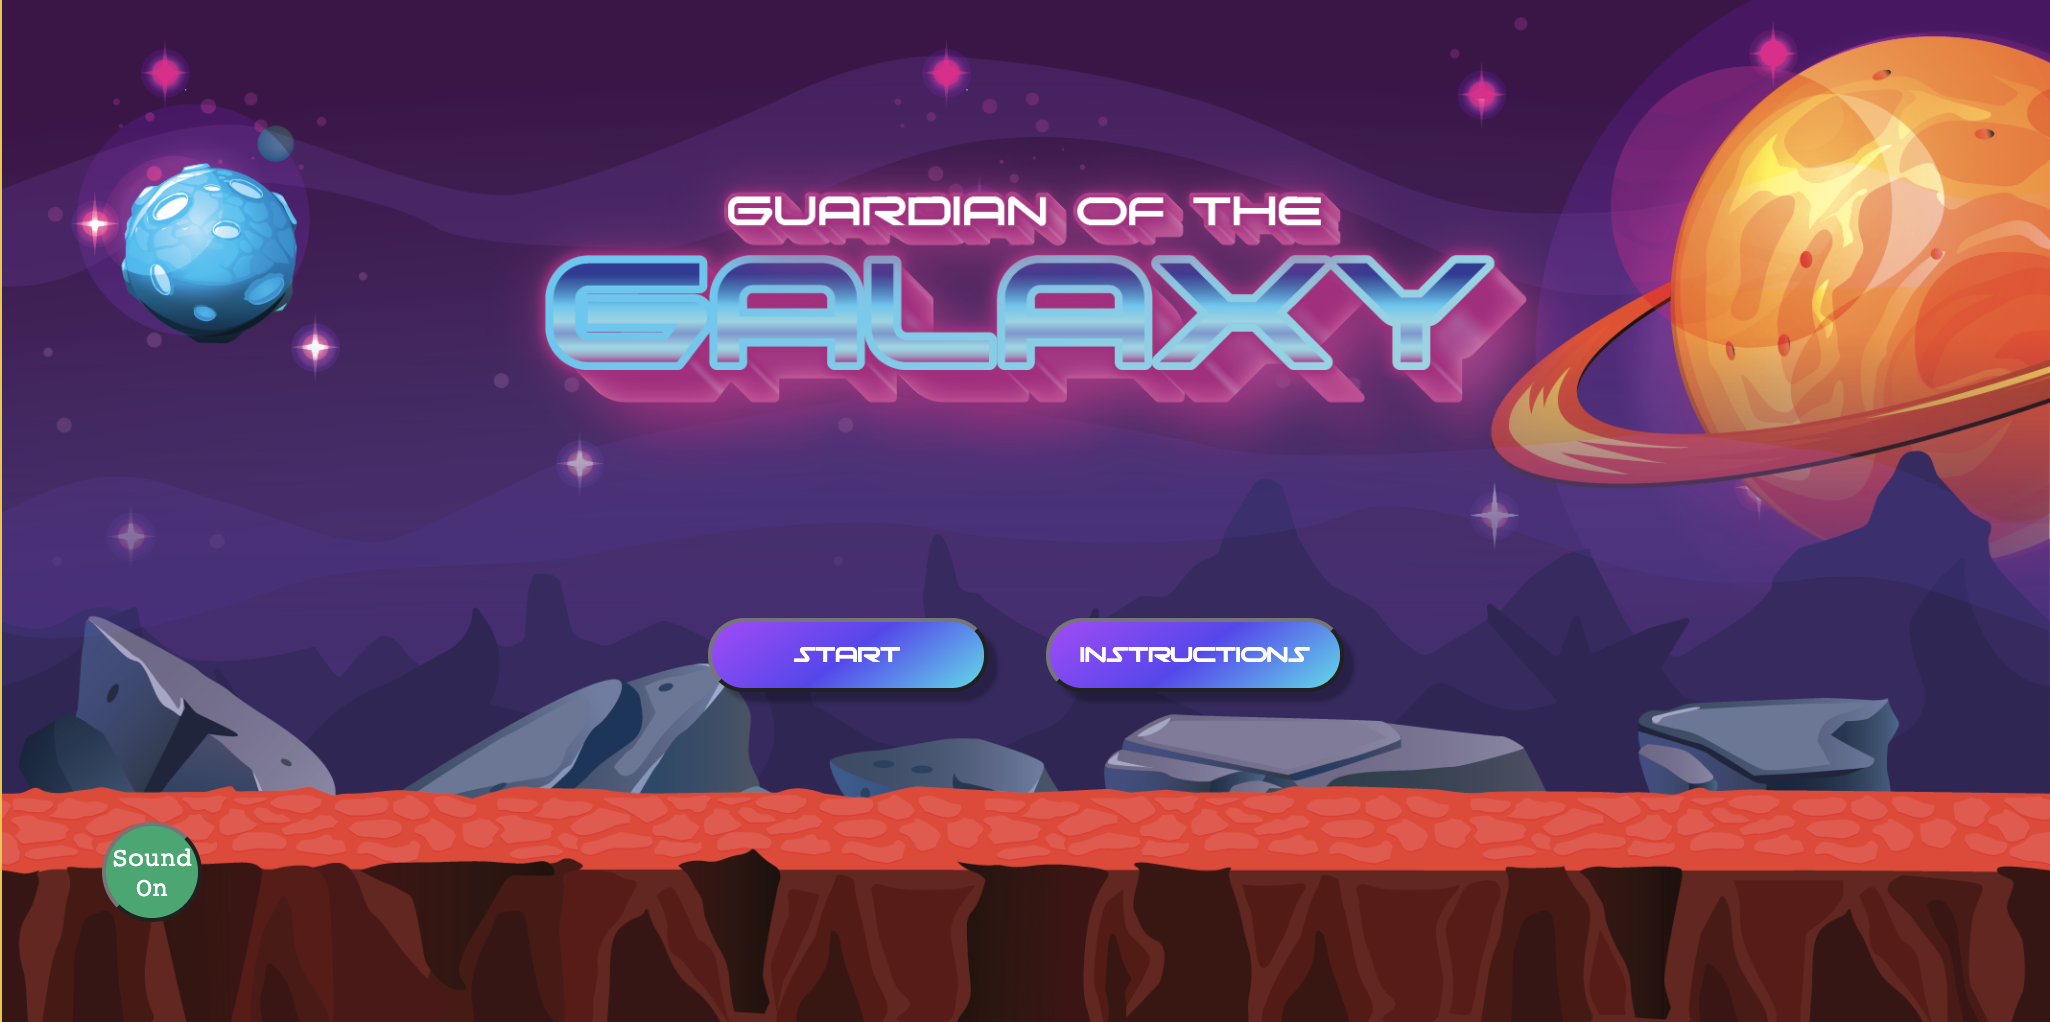
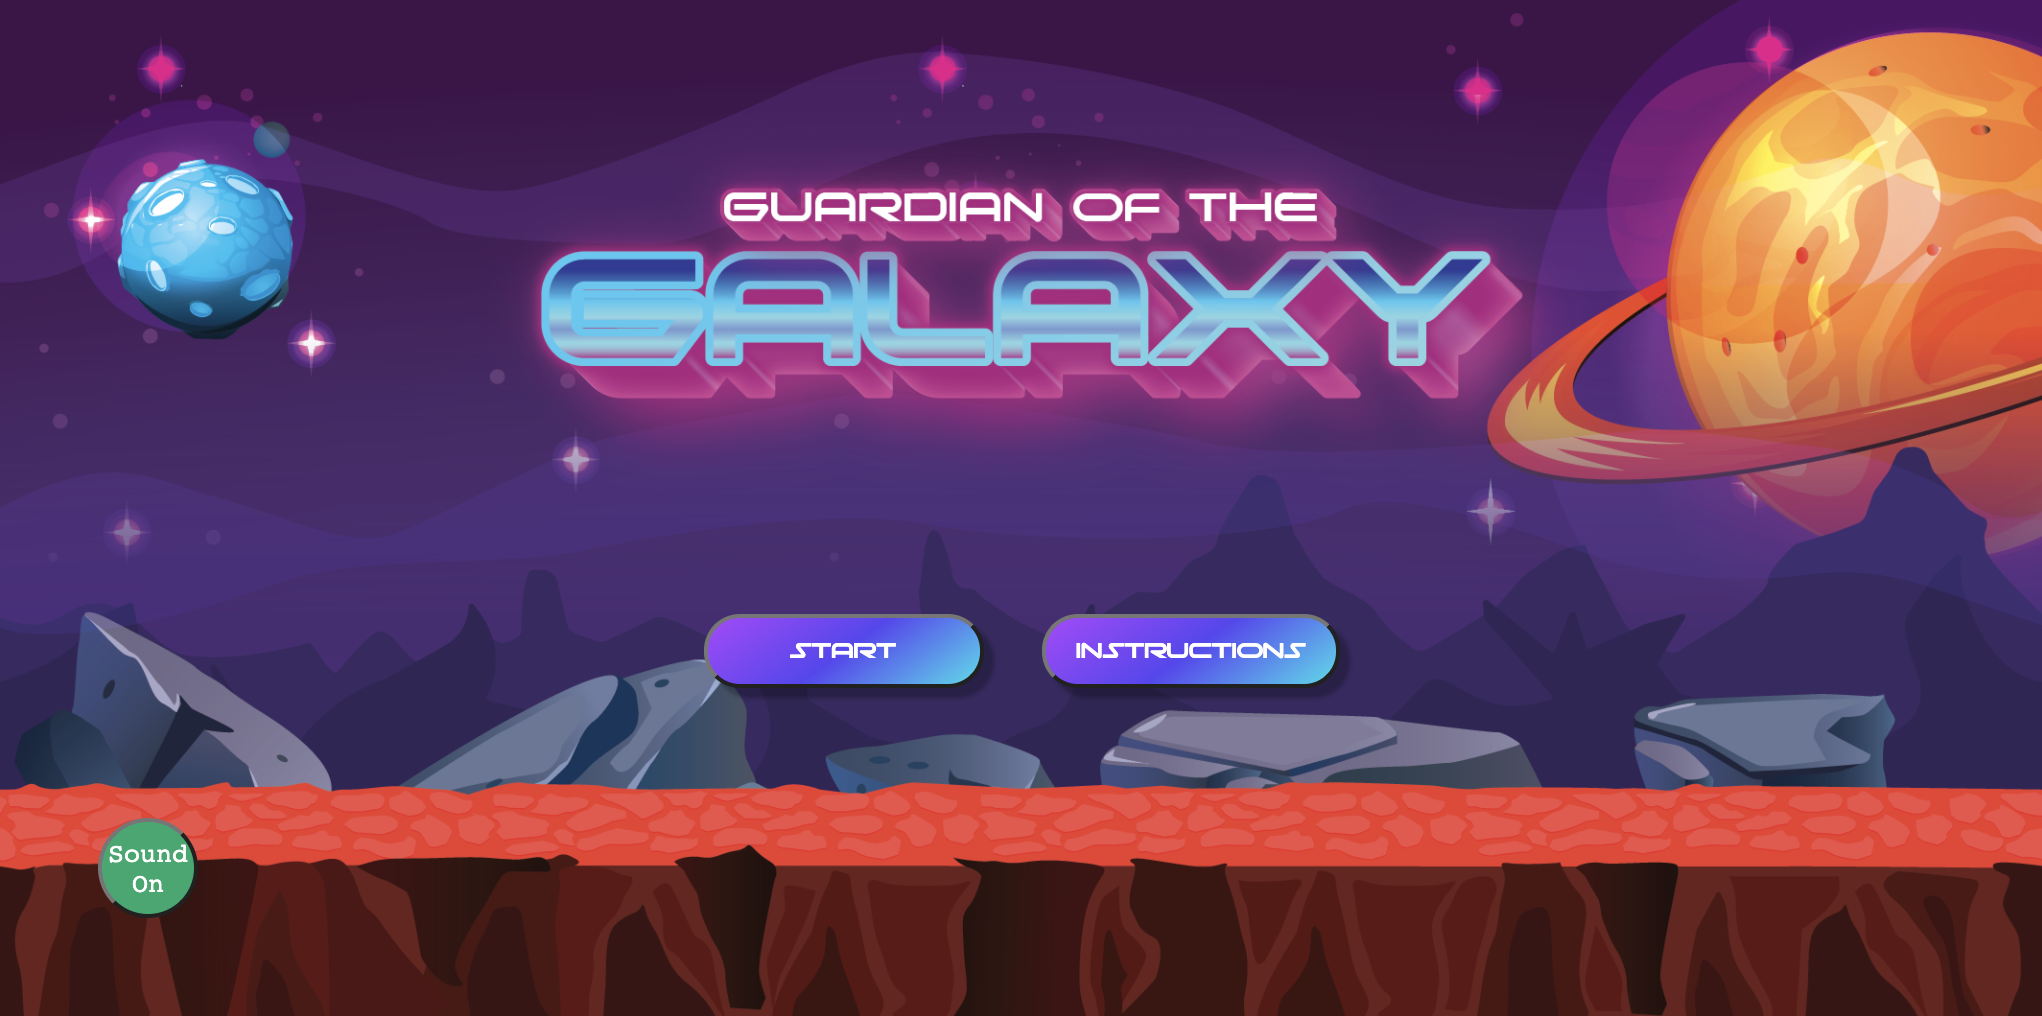
readme updated

diff --git a/README.md b/README.md
@@ -36,8 +36,19 @@ Sprite Sheets - Game Developer Studio
 * Each kill is 5 points added to scoreboard. Kill as many to reach highscore.
 
 ## UI Design and Game flow
-1. The landing page has 3 functions, to view instructions of game, turn on audio and prepare for the game start <br>
-<img src="images/UI1.png" width="500px"/><br>
+1. The landing page has 3 functions for player to interact with - to view instructions of game, turn on audio and prepare for the game start. <br>
+<br>
+<img src="images/UI1.png" width="600px"/><br>
+<img src="images/UI2.png" width="600px"/><br>
+
+2. When the player clicks on the start button, he/she will be directed to the game page and the countdown timer will start counting down from 30 seconds. At the same time, aliens will be activated and player must click on the aliens to gain points. <br>
+<br>
+<img src="images/UI3.png" width="600px"/><br>
+
+3. Once the player ends the game, header of the modal will either pop up "Great Job" (This means player did not achieve highscore) and "Highscore" (This means player has achieved highscore).<br>
+<br>
+<img src="images/UI4.png" width="600px"/><br>
+
 
 
 
